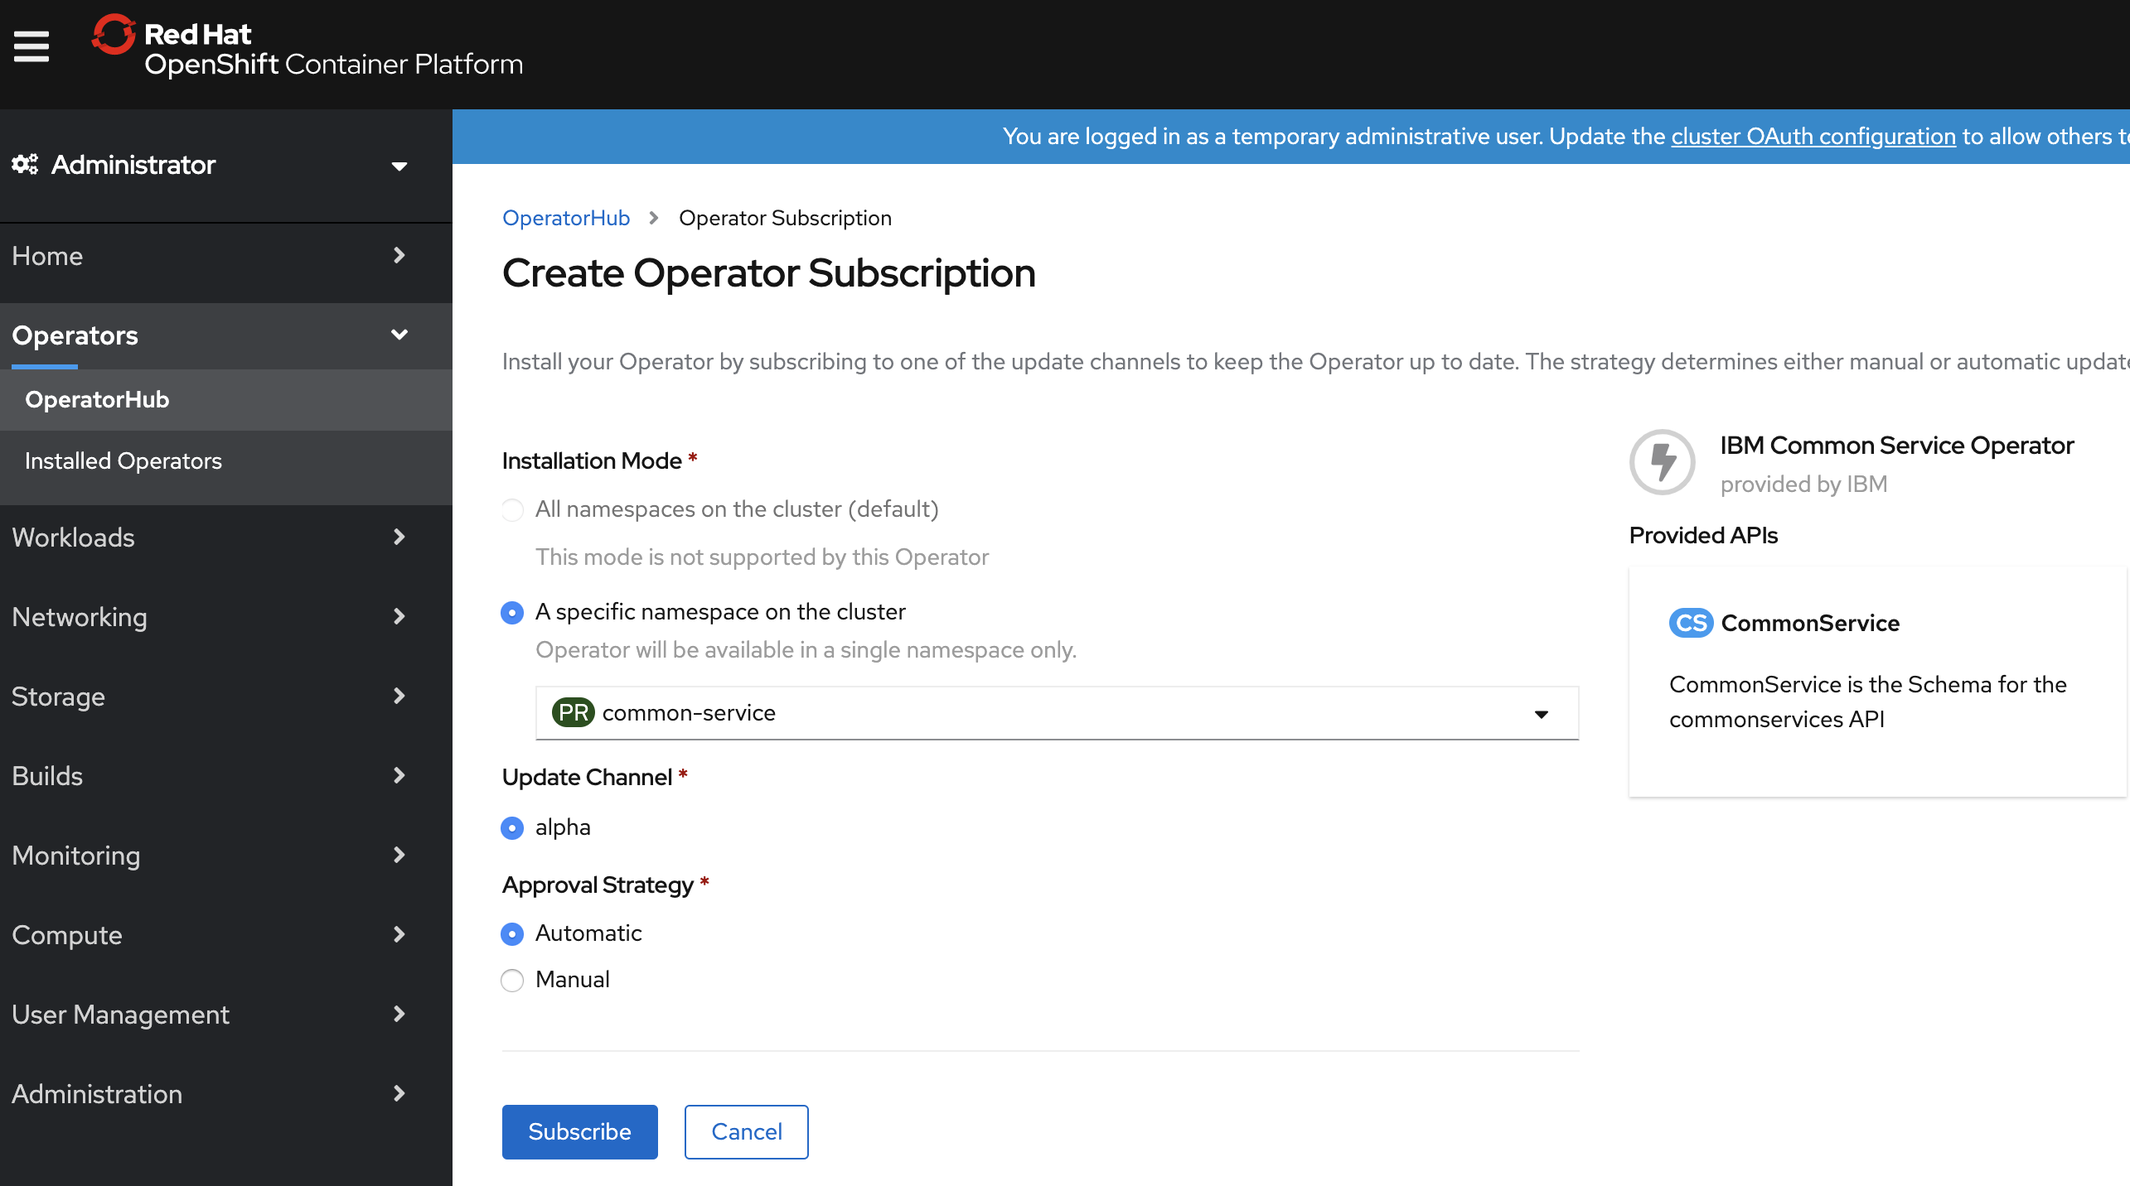
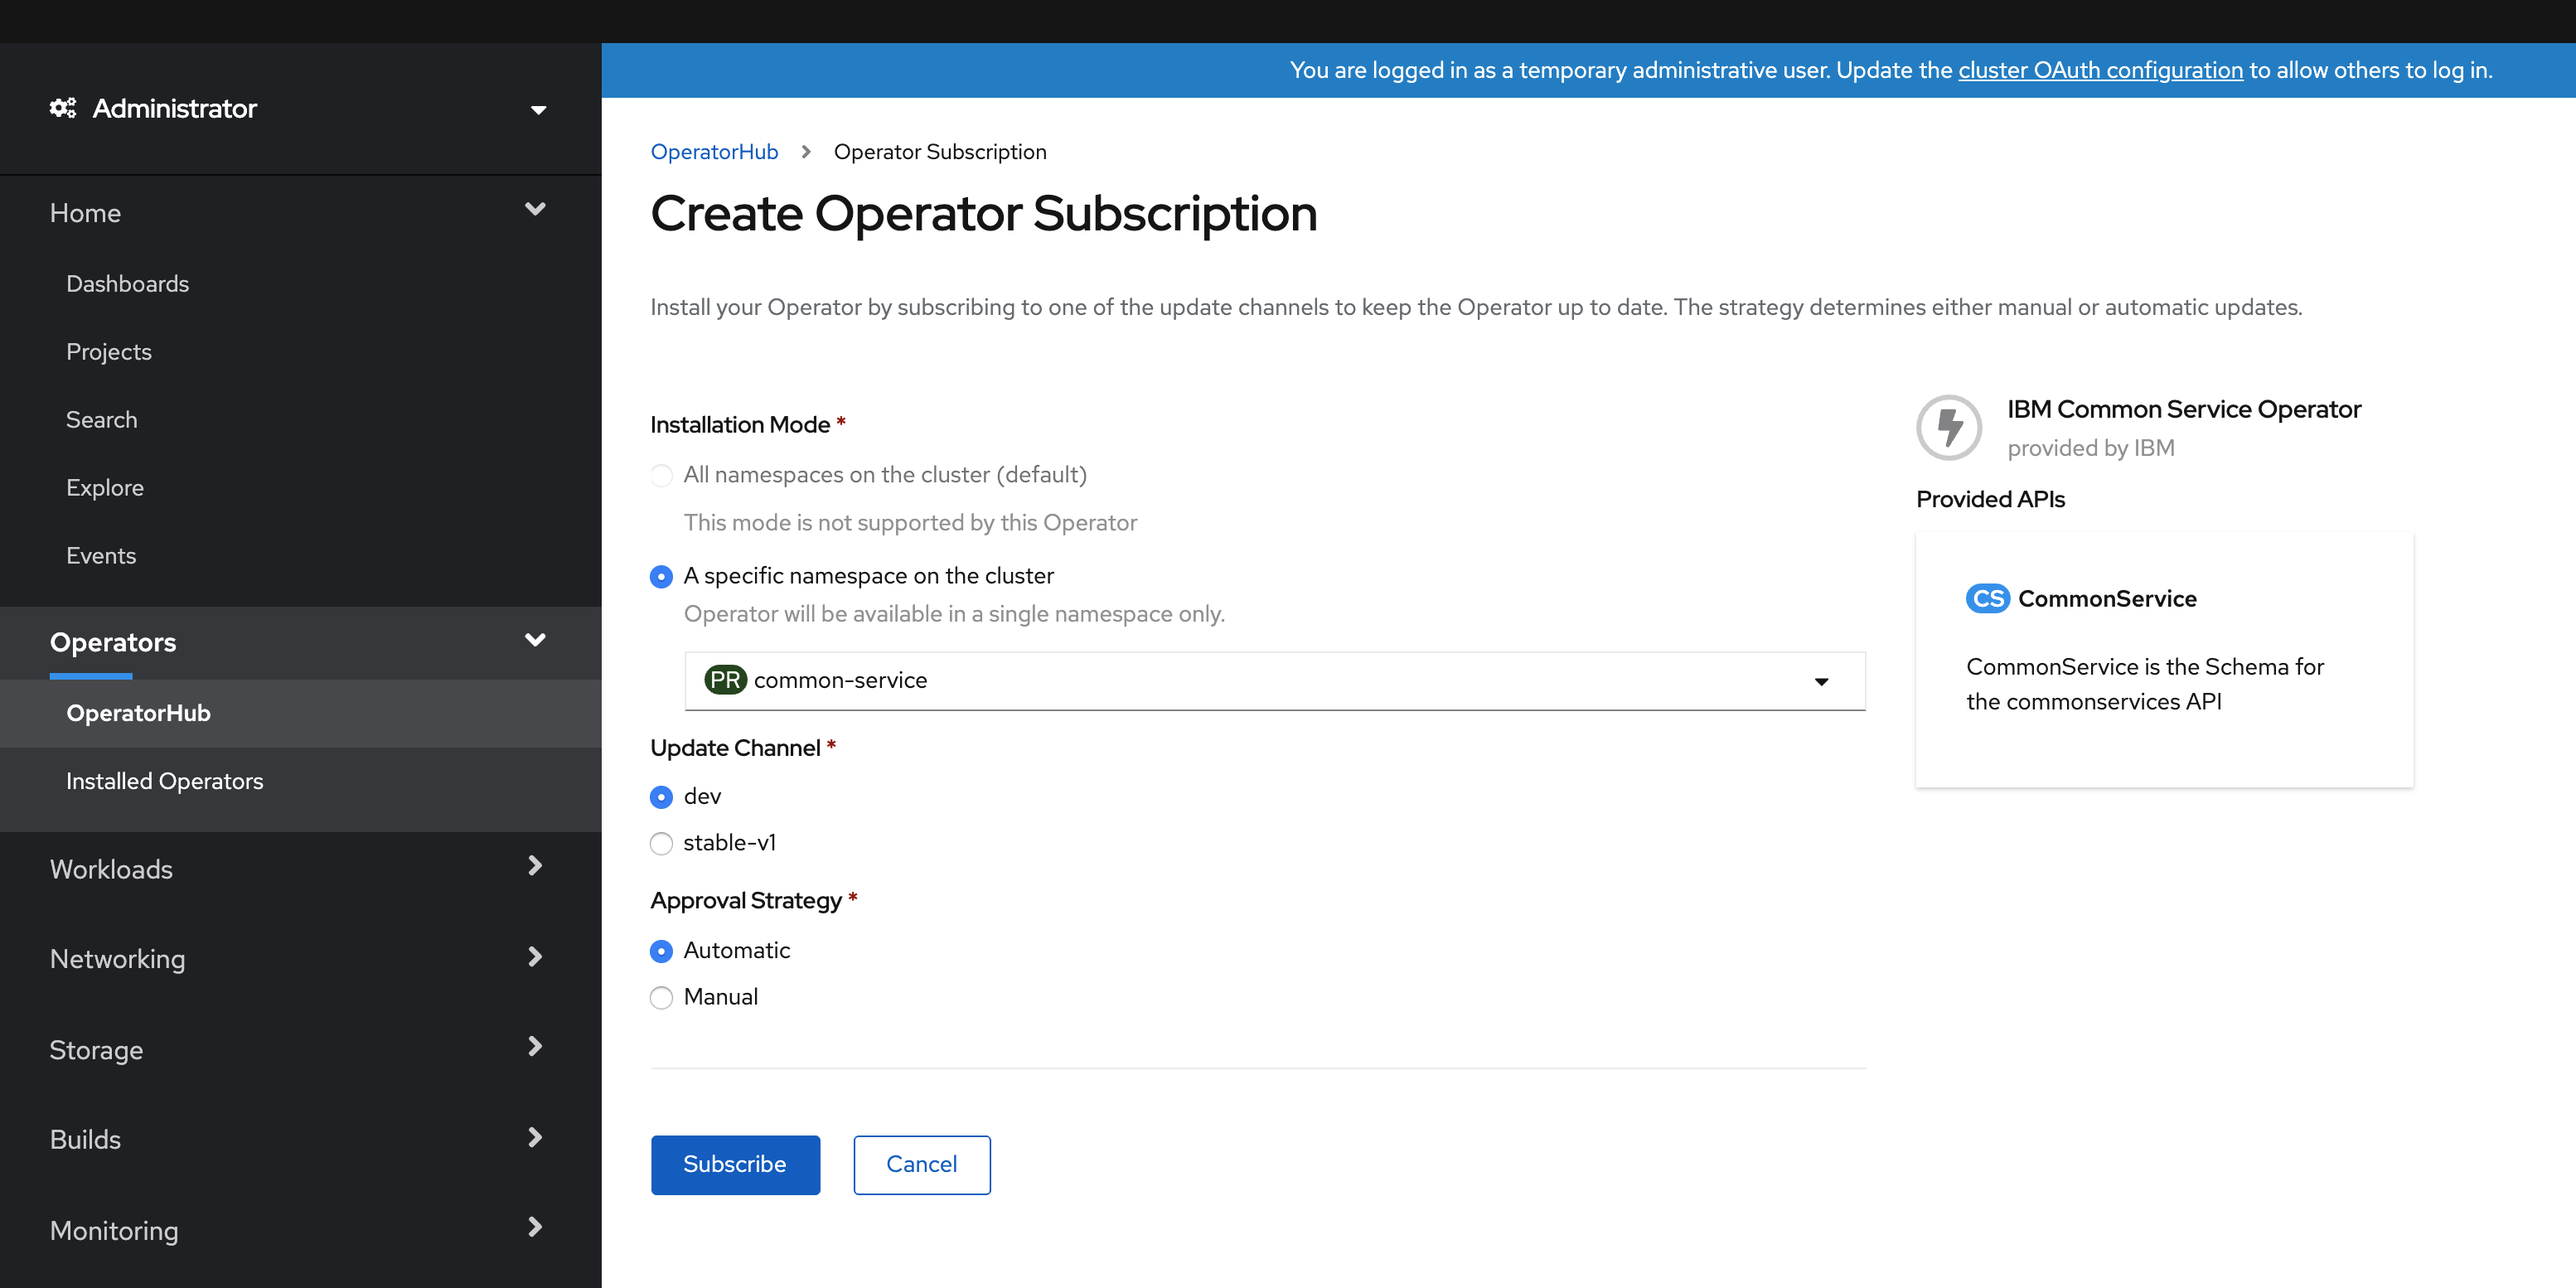
Update install.md

diff --git a/docs/cloudpak-integration.md b/docs/cloudpak-integration.md
@@ -82,20 +82,233 @@ spec:
   requests:
     - operands:
         - name: ibm-licensing-operator
-      registry: common-service-dev
+      registry: common-service
       registryNamespace: ibm-common-services
 ```
 
-For development and testing purposes, ibm common service operator will deploy two pairs of the `OperandRegistry` and `OperandConfig`.
-
-If you want to install the common services from the stable channel, you should set `registry: common-service` in the `OperandRequest`.
-
-If you want to install the common services from the dev channel, you should set `registry: common-service-dev` in the `OperandRequest`.
-
-**Note:** If `OperandRegistry` `common-service` is used, uses need to add the required services and all their dependencies into `OperandRequest`.
-
-**Note:** If If `OperandRegistry` `common-service-dev` is used, you just need to request the required services and ODLM and common service operators will manage the service dependency. `ibm-cert-manager-operator` and  `ibm-mongodb-operator` are private operators in the dev channel. They can't be requested directly from other namespaces except `ibm-common-service`. ODLM will generate them if other operators depend on them.
+**Note:** You just need to request the required services and ODLM and common service operators will manage the service dependency. `ibm-cert-manager-operator` and  `ibm-mongodb-operator` are private operators in the dev channel. They can't be requested directly from other namespaces except `ibm-common-service`. ODLM will generate them if other operators depend on them.
 
 CloudPaks can create this `OperandRequest` during [the CloudPak Operator start](https://github.com/IBM/ibm-common-service-operator/blob/master/cmd/manager/main.go#L121-L126), or have their own method to create this `OperandRequest`.
 
 After created this `OperandRequest`, ODLM Operator will use it to trigger the individual common services installation.
+
+**Note:**
+If you want to install the 3.3 version common services, you need to use the following `OperandConfig` and `OperandRegistry` to replace the `OperandConfig` and `OperandRegistry` generated by ibm common service operator before you create the OperandRequest.
+
+common services 3.3 OperandConfig:
+
+```yaml
+apiVersion: operator.ibm.com/v1alpha1
+kind: OperandConfig
+metadata:
+  name: common-service
+  namespace: ibm-common-services
+spec:
+  services:
+  - name: ibm-metering-operator
+    spec:
+      metering: {}
+      meteringUI: {}
+  - name: ibm-licensing-operator
+    spec:
+      IBMLicensing: {}
+  - name: ibm-mongodb-operator
+    spec:
+      mongoDB: {}
+  - name: ibm-cert-manager-operator
+    spec:
+      certManager: {}
+      issuer: {}
+      certificate: {}
+      clusterIssuer: {}
+  - name: ibm-iam-operator
+    spec:
+      authentication: {}
+      oidcclientwatcher: {}
+      pap: {}
+      policycontroller: {}
+      policydecision: {}
+      secretwatcher: {}
+      securityonboarding: {}
+  - name: ibm-healthcheck-operator
+    spec:
+      healthService: {}
+  - name: ibm-commonui-operator
+    spec:
+      commonWebUI: {}
+      legacyHeader: {}
+      navconfiguration: {}
+  - name: ibm-management-ingress-operator
+    spec:
+      managementIngress: {}
+  - name: ibm-ingress-nginx-operator
+    spec:
+      nginxIngress: {}
+  - name: ibm-auditlogging-operator
+    spec:
+      auditLogging: {}
+  - name: ibm-catalog-ui-operator
+    spec:
+      catalogUI: {}
+  - name: ibm-platform-api-operator
+    spec:
+      platformApi: {}
+  - name: ibm-helm-api-operator
+    spec:
+      helmApi: {}
+  - name: ibm-helm-repo-operator
+    spec:
+      helmRepo: {}
+  - name: ibm-monitoring-exporters-operator
+    spec:
+      exporter: {}
+  - name: ibm-monitoring-prometheusext-operator
+    spec:
+      prometheusExt: {}
+  - name: ibm-monitoring-grafana-operator
+    spec:
+      grafana: {}
+  - name: ibm-elastic-stack-operator
+    spec:
+      elasticStack: {}
+```
+
+common services 3.3 OperandRegistry:
+
+```yaml
+apiVersion: operator.ibm.com/v1alpha1
+kind: OperandRegistry
+metadata:
+  name: common-service
+  namespace: ibm-common-services
+spec:
+  operators:
+  - name: ibm-metering-operator
+    namespace: ibm-common-services
+    channel: stable-v1
+    packageName: ibm-metering-operator-app
+    sourceName: opencloud-operators
+    sourceNamespace: openshift-marketplace
+    description: The service used to meter workloads in a kubernetes cluster
+  - name: ibm-licensing-operator
+    namespace: ibm-common-services
+    channel: stable-v1
+    packageName: ibm-licensing-operator-app
+    sourceName: opencloud-operators
+    sourceNamespace: openshift-marketplace
+    description: The service used to management the license in a kubernetes cluster
+  - name: ibm-mongodb-operator
+    namespace: ibm-common-services
+    channel: stable-v1
+    packageName: ibm-mongodb-operator-app
+    sourceName: opencloud-operators
+    sourceNamespace: openshift-marketplace
+    description: The service used to create mongodb in a kubernetes cluster
+  - name: ibm-cert-manager-operator
+    namespace: ibm-common-services
+    channel: stable-v1
+    packageName: ibm-cert-manager-operator
+    sourceName: opencloud-operators
+    sourceNamespace: openshift-marketplace
+    description: Operator for managing deployment of cert-manager service.
+  - name: ibm-iam-operator
+    namespace: ibm-common-services
+    channel: stable-v1
+    packageName: ibm-iam-operator
+    sourceName: opencloud-operators
+    sourceNamespace: openshift-marketplace
+    description: Operator for managing deployment of iam service.
+  - name: ibm-healthcheck-operator
+    namespace: ibm-common-services
+    channel: stable-v1
+    packageName: ibm-healthcheck-operator-app
+    sourceName: opencloud-operators
+    sourceNamespace: openshift-marketplace
+    description: Operator for managing deployment of health check service.
+  - name: ibm-commonui-operator
+    namespace: ibm-common-services
+    channel: stable-v1
+    packageName: ibm-commonui-operator-app
+    sourceName: opencloud-operators
+    sourceNamespace: openshift-marketplace
+    description: The service that services the login page, common header, LDAP, and Team resources pages
+  - name: ibm-management-ingress-operator
+    namespace: ibm-common-services
+    channel: stable-v1
+    packageName: ibm-management-ingress-operator-app
+    sourceName: opencloud-operators
+    sourceNamespace: openshift-marketplace
+    description: Operator for managing deployment of management ingress service.
+  - name: ibm-ingress-nginx-operator
+    namespace: ibm-common-services
+    channel: stable-v1
+    packageName: ibm-ingress-nginx-operator-app
+    sourceName: opencloud-operators
+    sourceNamespace: openshift-marketplace
+    description: Operator for managing deployment of ingress nginx service.
+  - name: ibm-auditlogging-operator
+    namespace: ibm-common-services
+    channel: stable-v1
+    packageName: ibm-auditlogging-operator-app
+    sourceName: opencloud-operators
+    sourceNamespace: openshift-marketplace
+    description: Operator for managing deployment of auditlogging service.
+  - name: ibm-catalog-ui-operator
+    namespace: ibm-common-services
+    channel: stable-v1
+    packageName: ibm-catalog-ui-operator-app
+    sourceName: opencloud-operators
+    sourceNamespace: openshift-marketplace
+    description: Operator for managing deployment of catalog UI service.
+  - name: ibm-platform-api-operator
+    namespace: ibm-common-services
+    channel: stable-v1
+    packageName: ibm-platform-api-operator-app
+    sourceName: opencloud-operators
+    sourceNamespace: openshift-marketplace
+    description: Operator for managing deployment of Platform API service.
+  - name: ibm-helm-api-operator
+    namespace: ibm-common-services
+    channel: stable-v1
+    packageName: ibm-helm-api-operator-app
+    sourceName: opencloud-operators
+    sourceNamespace: openshift-marketplace
+    description: Operator for managing deployment of Helm API service.
+  - name: ibm-helm-repo-operator
+    namespace: ibm-common-services
+    channel: stable-v1
+    packageName: ibm-helm-repo-operator-app
+    sourceName: opencloud-operators
+    sourceNamespace: openshift-marketplace
+    description: Operator for managing deployment of Helm repository service.
+  - name: ibm-monitoring-exporters-operator
+    namespace: ibm-common-services
+    channel: stable-v1
+    packageName: ibm-monitoring-exporters-operator-app
+    sourceName: opencloud-operators
+    sourceNamespace: openshift-marketplace
+    description: Operator to provision node-exporter, kube-state-metrics and collectd exporter with tls enabled.
+  - name: ibm-monitoring-prometheusext-operator
+    namespace: ibm-common-services
+    channel: stable-v1
+    packageName: ibm-monitoring-prometheusext-operator-app
+    sourceName: opencloud-operators
+    sourceNamespace: openshift-marketplace
+    description: Operator to deploy Prometheus and Alertmanager instances with RBAC enabled. It will also enable Multicloud monitoring.
+  - channel: stable-v1
+    description: Operator to deploy Grafana instances with RBAC enabled.
+    name: ibm-monitoring-grafana-operator
+    namespace: ibm-common-services
+    packageName: ibm-monitoring-grafana-operator-app
+    scope: private
+    sourceName: opencloud-operators
+    sourceNamespace: openshift-marketplace
+  - channel: stable-v1
+    description: Operator that installs and manages Elastic Stack logging service instances. 
+    name: ibm-elastic-stack-operator
+    namespace: ibm-common-services
+    packageName: ibm-elastic-stack-operator-app
+    scope: private
+    sourceName: opencloud-operators
+    sourceNamespace: openshift-marketplace
+```

diff --git a/docs/install.md b/docs/install.md
@@ -84,6 +84,8 @@ Click and install IBM Common Service Operator into `common-service` namespace.
 
 ![Install Preview](./images/install-operator.png)
 
+You can choose the `stable-v1` channel for installing the common service in the last release or choose the `dev` channel to install the latest version.
+
 Waiting for few minutes the IBM Common Service Operator and ODLM will be installed.
 
 ![Installed Operators](./images/installed-operators.png)
